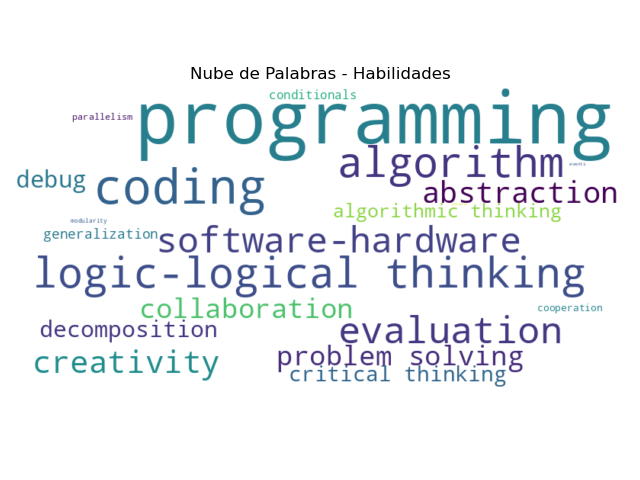
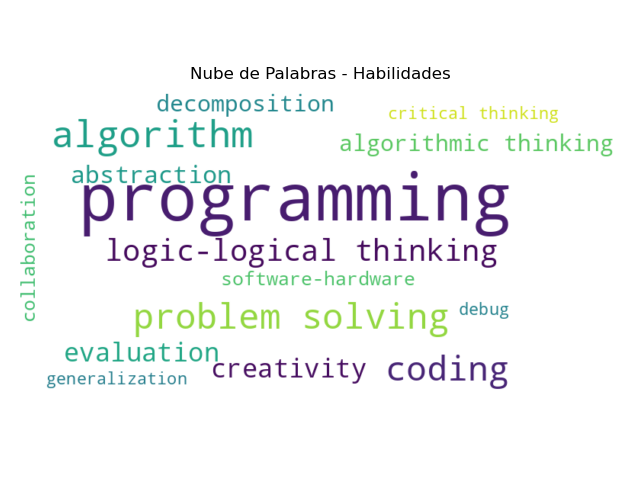
se actualizo la clase journal

Changed region(s): [[0.0312, 0.1875, 0.9688, 0.8125]]

diff --git a/analisis/analysis/JournalGraphBuilder.py b/analisis/analysis/JournalGraphBuilder.py
@@ -14,52 +14,31 @@ class JournalGraphBuilder:
         self.data_path = data_path
         self.category_path = category_path
         self.output_path = output_path
-        self.df = pd.DataFrame()
-        self.categorias = {}
-        self.frecuencias_categoria = {}
-        self.graph = nx.Graph()
-        self.visualition = Visualization()
-
-    def run(self):
         dataHandler = DataHandler(self.data_path, self.category_path)
         self.df = dataHandler.load_and_prepare()
         self.categorias = dataHandler._load_categories_from_txt()
         self.frecuencias_categoria = dataHandler._compute_frequencies(self.categorias, self.df)
-        graph = GraphAnalysis()
-        #print(self.df['Abstract'])
-        abstracts = self.df['Abstract']
-        self.graph = graph.build_graph(abstracts, self.categorias)
-        #visualition = Visualization()
+        self.graph = nx.Graph()
+        self.visualition = Visualization()
 
-        self.drawSaveGraph()
-        #visualition.draw_and_save_graph(self.graph, self.output_path)
-        
-        dfs = dataHandler._load_and_prepare_all_data()
-        frecuencies = dataHandler._compute_frequencies(self.categorias, dfs)
-
-        self.drawGenerateBarCharts(frecuencies, self.output_path)
-        #visualition.generate_bar_charts(frecuencies, self.output_path)
-        
-        self.drawWordClouds(frecuencies, self.output_path)
-        #visualition.generate_wordclouds(frecuencies, self.output_path)
-        
-        self.drawGlobalWordCloud( frecuencies)
-        #visualition.generate_global_wordcloud(frecuencies, self.output_path)
-
+    def generateDendogram(self):
         dendogram = DrawDendogram()
         dendogram._generate_dendrograms(self.df, self.output_path, self.categorias)
 
     def drawSaveGraph(self):
+        graph = GraphAnalysis()
+        abstracts = self.df['Abstract']
+        self.graph = graph.build_graph(abstracts, self.categorias)
         self.visualition.draw_and_save_graph(self.graph, self.output_path)
 
-    def drawGenerateBarCharts(self, frecuencies, output_path):
-        self.visualition.generate_bar_charts(frecuencies, output_path)
+    def drawGenerateBarCharts(self):
+        self.visualition.generate_bar_charts(self.frecuencias_categoria, self.output_path)
 
-    def drawWordClouds(self, frecuencies, output_path):
-        self.visualition.generate_wordclouds(frecuencies, output_path)
+    def drawWordClouds(self):
+        self.visualition.generate_wordclouds(self.frecuencias_categoria, self.output_path)
 
-    def drawGlobalWordCloud(self, frecuencies):
-        self.visualition.generate_global_wordcloud(frecuencies, self.output_path)
+    def drawGlobalWordCloud(self):
+        self.visualition.generate_global_wordcloud(self.frecuencias_categoria, self.output_path)
 
 
 if __name__ == "__main__":
@@ -68,4 +47,8 @@ if __name__ == "__main__":
         category_path= os.path.join(os.path.dirname(__file__), "../static/assets/Category_txt/categories.txt"),
         output_path = os.path.abspath(os.path.join(os.path.dirname(__file__), "../static/assets/statistics"))
     )
-    builder.run()
+    builder.generateDendogram()
+    builder.drawWordClouds()
+    builder.drawGlobalWordCloud()
+    builder.drawSaveGraph()
+    builder.drawGenerateBarCharts()
